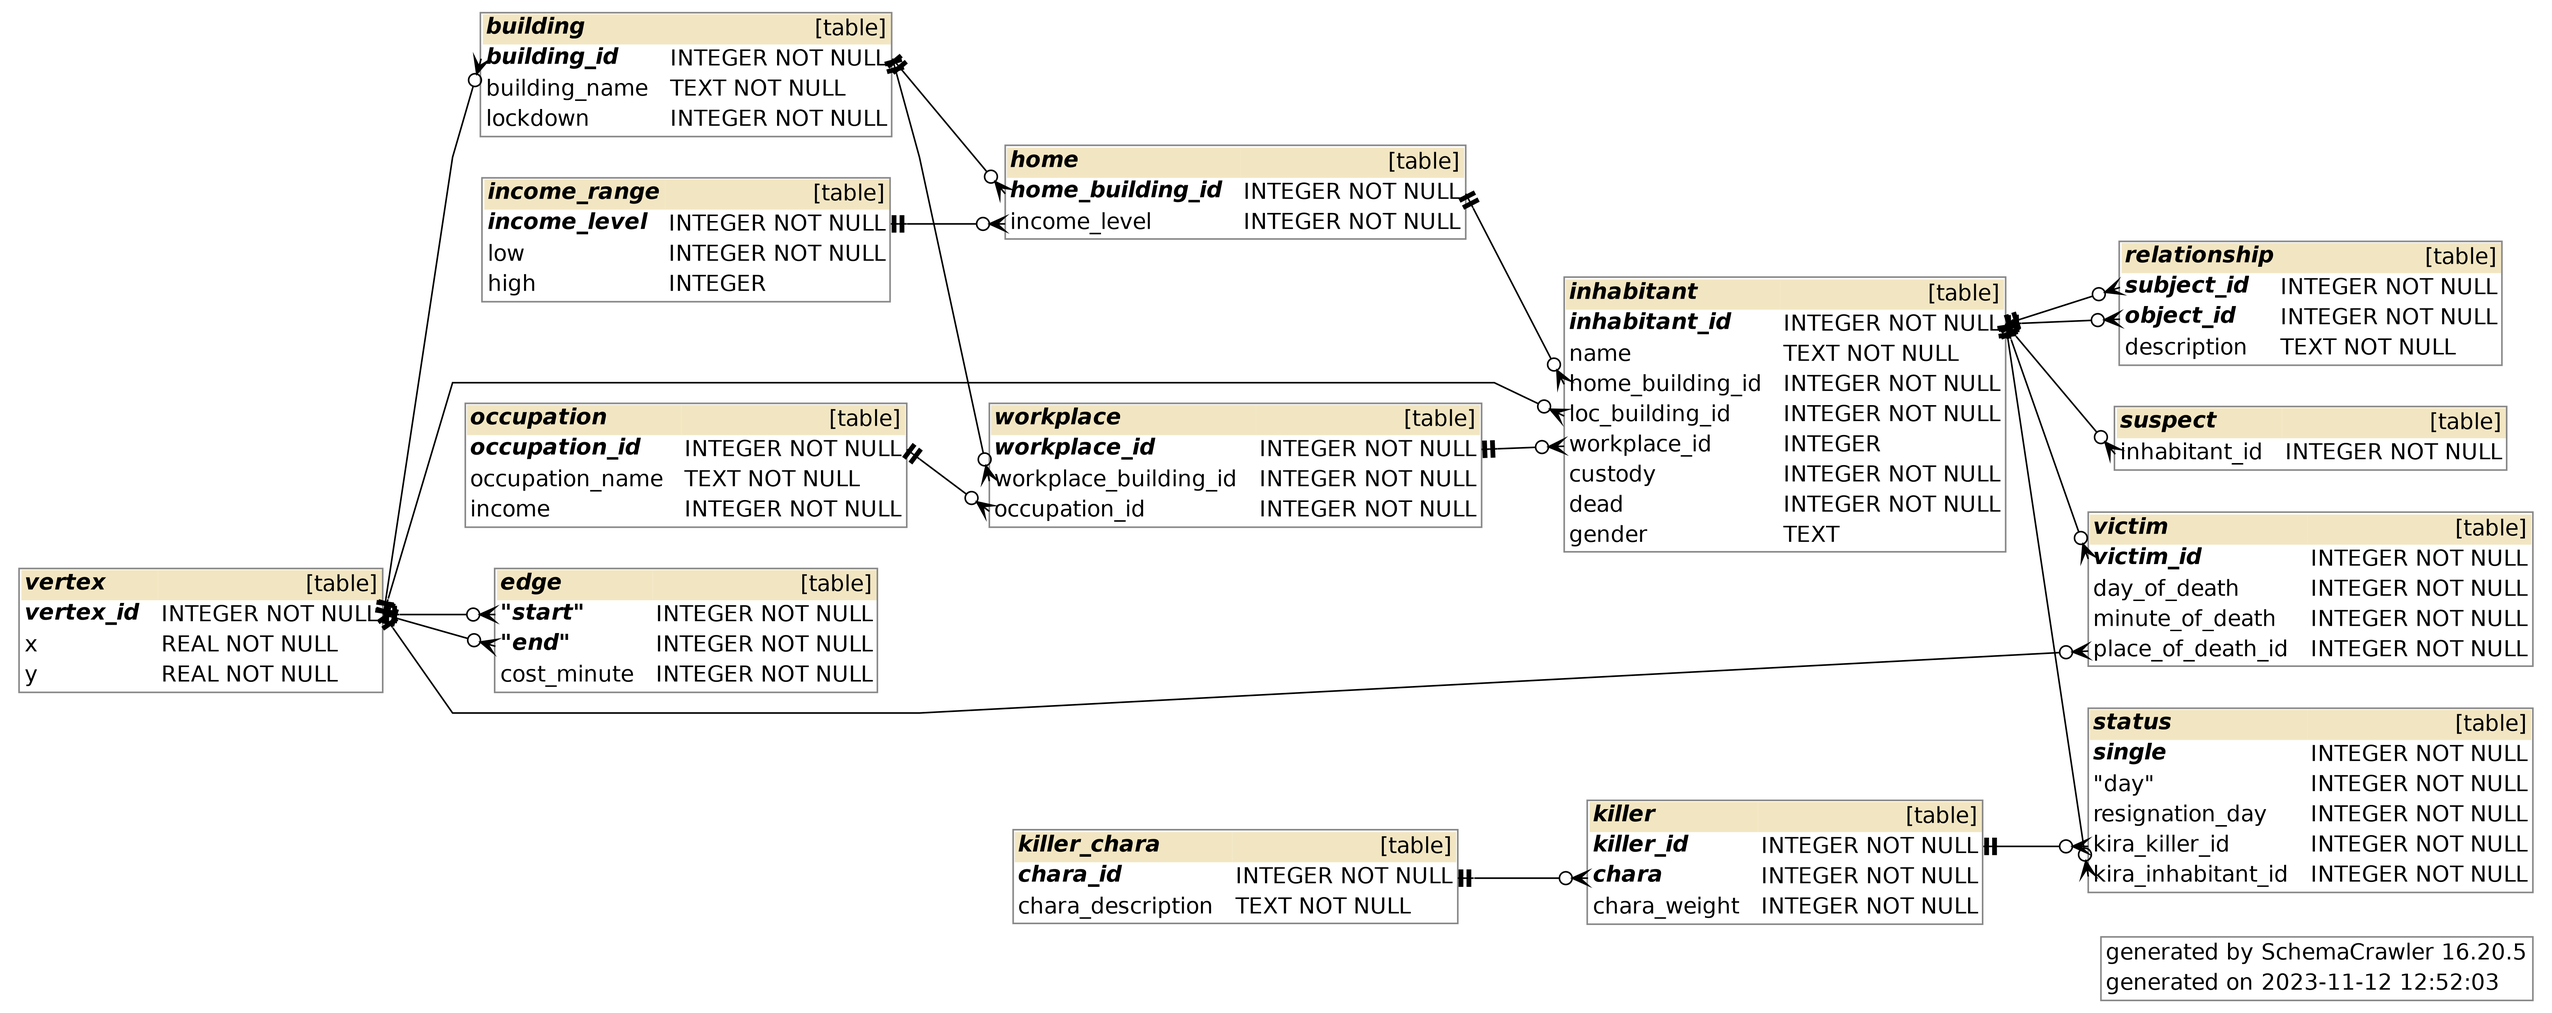
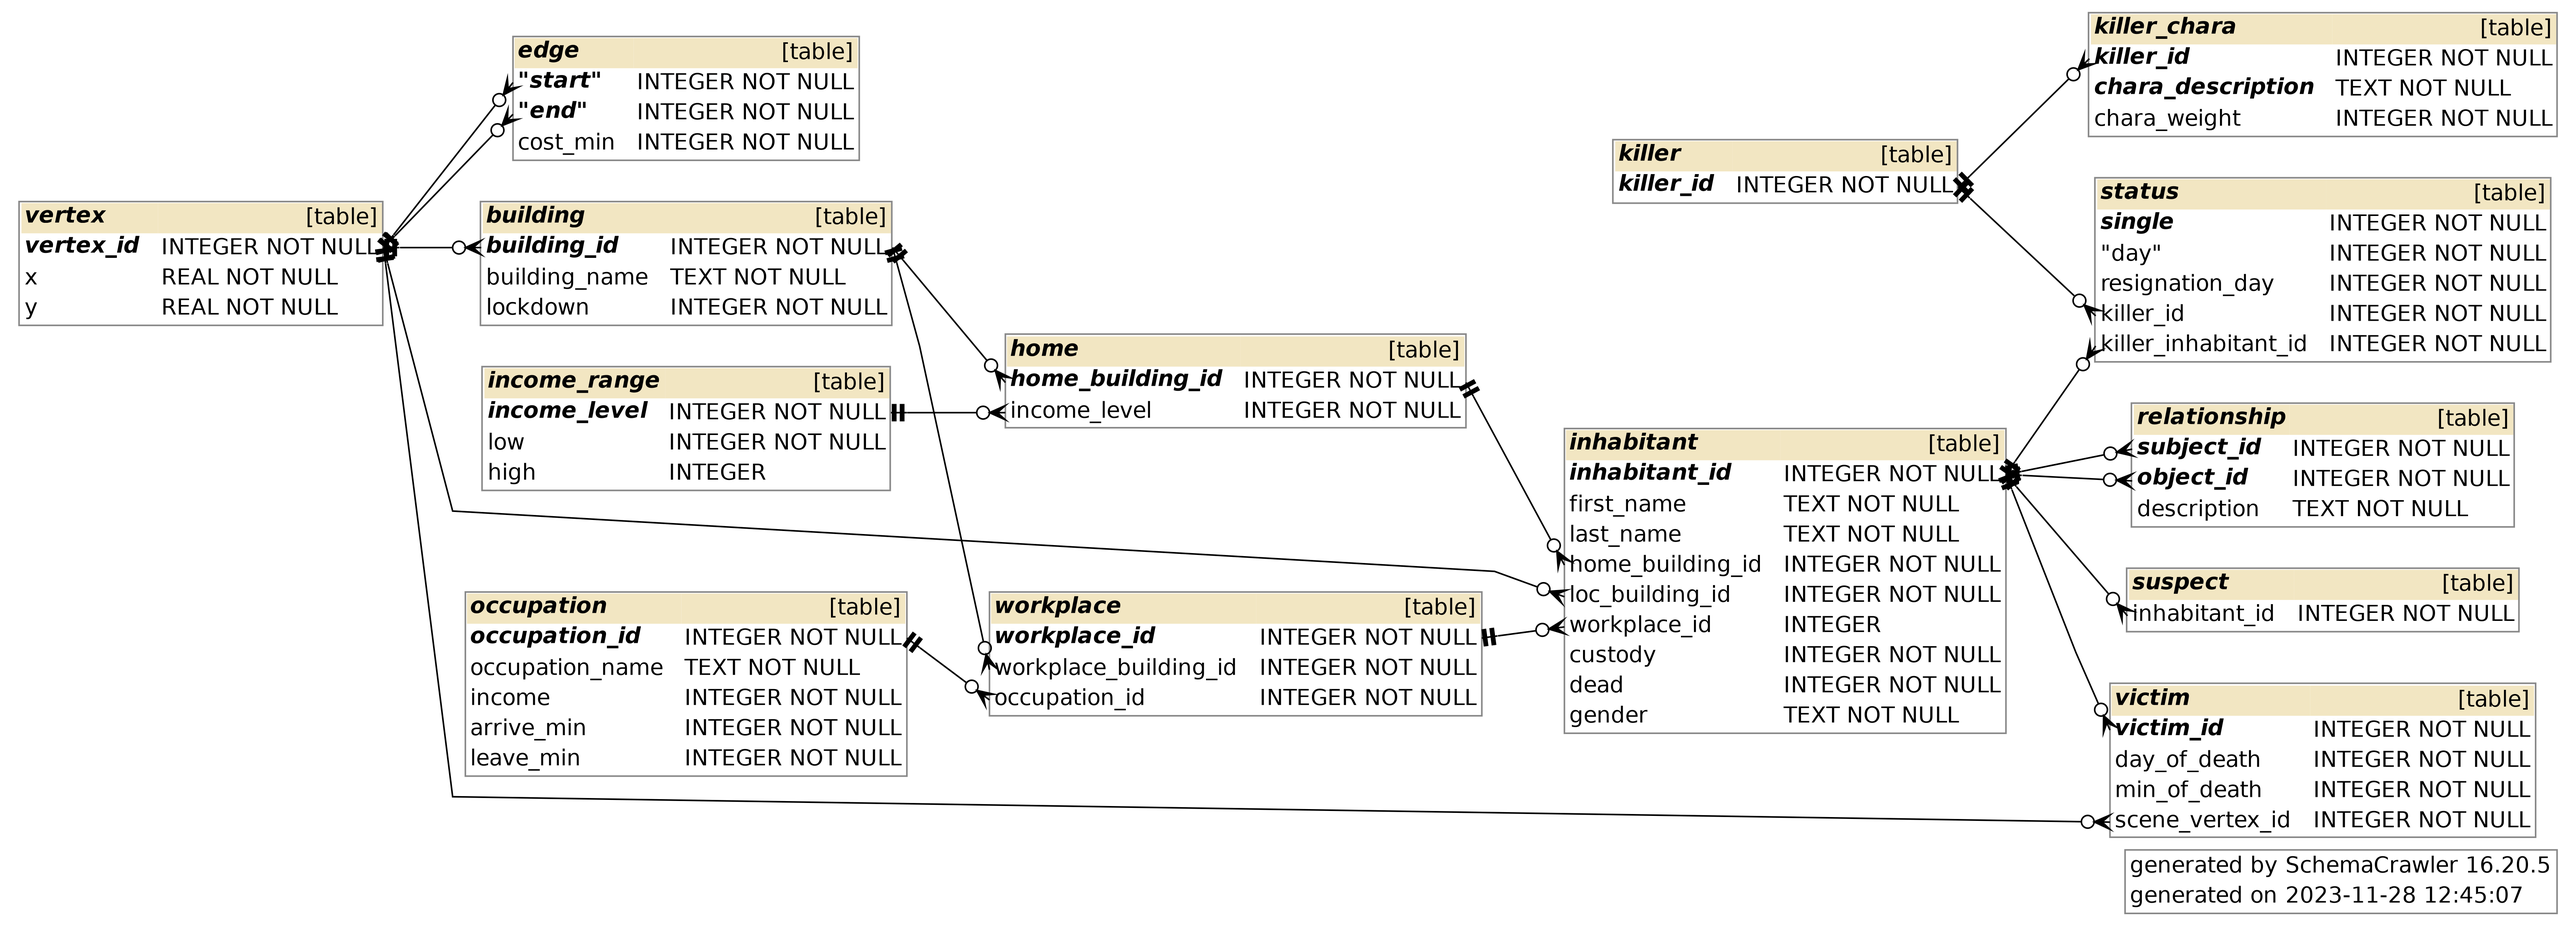
Update database schema

diff --git a/dsimulator/game.py b/dsimulator/game.py
@@ -49,8 +49,11 @@ def init_game() -> None:
 
         cur = con.execute(
             'INSERT INTO home (home_building_id, income_level) VALUES (?, ?)', (vertex_id, income_level))
-        con.execute('INSERT INTO inhabitant (name, home_building_id, loc_building_id, custody, dead) VALUES (?, ?, ?, ?, ?)',
-                    (''.join(random.choices(string.ascii_uppercase + string.digits, k=10)), vertex_id, vertex_id, 0, 0))
+        con.execute('''INSERT INTO inhabitant (first_name, last_name, home_building_id, loc_building_id, custody, dead, gender)
+                                   VALUES (?, ?, ?, ?, ?, ?, ?)''',
+                    (''.join(random.choices(string.ascii_uppercase + string.digits, k=4)),
+                     ''.join(random.choices(string.ascii_uppercase + string.digits, k=4)),
+                     vertex_id, vertex_id, 0, 0, 'm'))
 
 
 def close_game() -> None:
@@ -138,11 +141,12 @@ def delete_save(save_id: int) -> None:
 
 def list_inhabitant() -> Tuple[Tuple[str, ...], List[Tuple]]:
     """Return all inhabitants' attribute names that are known by the player and the respective values."""
-    cur = con.execute('''SELECT inhabitant_id, name, h.building_name, workplace_id, custody, dead, gender
+    cur = con.execute('''SELECT inhabitant_id, first_name, last_name, h.building_name, workplace_id, custody, dead, gender
                            FROM inhabitant
                                 JOIN building AS h
                                 ON home_building_id = building_id''')
-    return ('inhabitant_id', 'name', 'home_building_name', 'workplace_id', 'custody', 'dead', 'gender'), cur.fetchall()
+    return ('inhabitant_id', 'first_name', 'last_name', 'home_building_name', 'workplace_id', 'custody', 'dead', 'gender'), \
+        cur.fetchall()
 
 
 def list_vertex() -> List[Tuple[int, int]]:
@@ -157,7 +161,7 @@ def list_edge() -> List[Tuple[int, int, int, int, int]]:
 
     As the map edges are added twice for two directions, only those with start < end will be considered.
     """
-    cur = con.execute('''SELECT s.x, s.y, e.x, e.y, cost_minute
+    cur = con.execute('''SELECT s.x, s.y, e.x, e.y, cost_min
                            FROM edge
                                 JOIN vertex AS s
                                 ON start = s.vertex_id

diff --git a/README.md b/README.md
@@ -42,7 +42,7 @@ dsimulator
 - [ ] Consider the uncertainty of the UI workload and address it towards the end.
 
 ### Database Setup
-- [ ] Create an SQLite database using the provided schema, ensuring all constraints and relationships are correctly implemented.
+- [x] Create an SQLite database using the provided schema, ensuring all constraints and relationships are correctly implemented.
 - [ ] Populate tables with initial data. Ensure diversity in characters, locations, and scenes for realism. Approximately 1000 records need to be populated (generate families, assign occupations, incomes, and addresses).
 
 ### Python Programming for Game Logic
